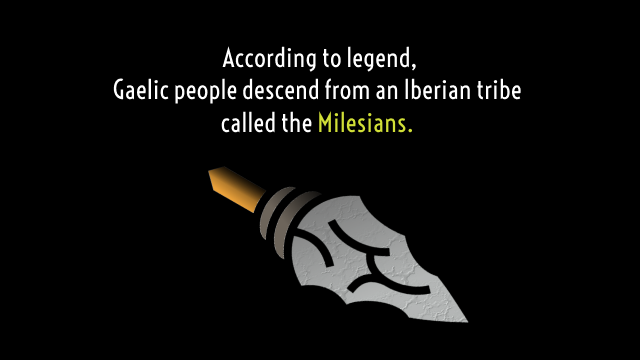
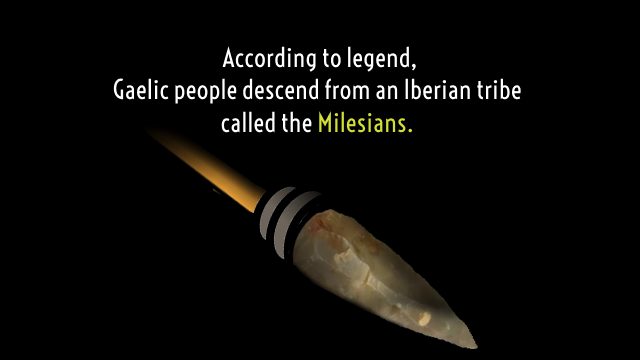
Improve layout.

Changed region(s): [[0.4375, 0.5194, 0.75, 0.9778], [0.25, 0.3667, 0.375, 0.5806]]

diff --git a/assets/css/style.css b/assets/css/style.css
@@ -52,7 +52,15 @@ body{
   
 }
 #blue-cape-menu{
-  background-color:black;
+  /* border:2px solid red; */
+max-height:30%;
+  display: flex;
+  justify-content: center;
+  align-items: center;
+ margin:10%;
+
+ max-width:80%;
+  background-color:black
 }
 .hidden{
   display:none;
@@ -113,19 +121,15 @@ bottom:0;
   
   size:cover; */
 }
-
-
-
-} */
 #blue-cape-menu{
 
 }
 
 #blue-cape{
-   top:0; 
-   padding-right:0;
-   margin-right:0; 
-
+  position:fixed;
+  display: flex;
+  justify-content: center;
+  align-items: center;
     
   /* position: fixed;
   display: flex;
@@ -221,8 +225,8 @@ align-items: center;
 text-align:center;
 /* top:0%;
 left:0%; */
-margin-top:11%;
-margin-left:8%;
+margin-top:0%;
+margin-right:5%;
 padding:25%;
 
   color:rgb(230, 227, 93);

diff --git a/index.html b/index.html
@@ -53,16 +53,14 @@
 
 
                 <div id="blue-cape-menu">
-                  <div class="col-5">
-                  </div>
-
-                  <div class="col-7">
-
-                    <img id="blue-cape" src="assets/images/blue-cape.gif">
 
 
 
-                  </div>
+                  <img id="blue-cape" src="assets/images/blue-cape.gif">
+
+
+
+
 
                 </div>
 
@@ -145,14 +143,14 @@
                 <img class="d-block w-100" src="./assets/images/About1/29.png" alt="">
               </div>
 
+              <div id="demo">
+              </div>
+
 
             </div>
 
           </div>
 
-          <div id="demo">
-
-          </div>
         </div>
       </div> <!-- close hold-frame-->
 

diff --git a/src/app.js b/src/app.js
@@ -77,12 +77,11 @@ $(document).ready(function () {
         // typeWriter("#demo", "true", 40);
         // clearLine();
       }, 4000);
-      // clearLine();
 
       $('#demo').text(' ');
 
-      $('#demo').text(englishProse[0]);
       $('#demo').fadeTo('slow', 1);
+      $('#demo').text(englishProse[0]);
       // return msg;
       // typeWriter("#demo", "true", 40);
 
@@ -274,13 +273,13 @@ $(document).ready(function () {
 
     setTimeout(function () {
       $("#blue-cape").animate({
-        left: '250px',
-        height: '10%',
-        width: '10%',
+        top: "-=20",
         opacity: 0
+
+
       }, "slow");
 
-    }, 6000);
+    }, 5000);
   }
 
 
